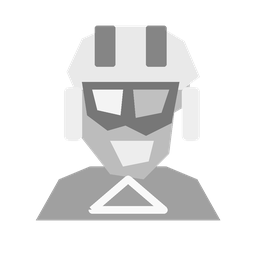
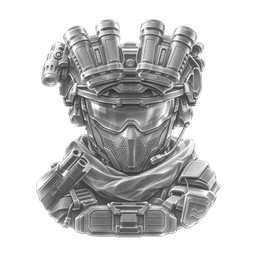
Refine 16 glass engravings and add Noexistence artwork

diff --git a/tools/build.py b/tools/build.py
@@ -55,11 +55,22 @@ def main():
     index=json.loads((ROOT/'catalog.json').read_text(encoding='utf8'));entries=[];preview=[]
     (ROOT/'icons').mkdir(exist_ok=True)
     for item in index:
-        name=item['id'];svg=(ROOT/'src'/f'{name}.svg').read_text(encoding='utf8');image=render(svg)
+        name=item['id']
+        if item.get('source'):
+            source=(ROOT/item['source']).resolve()
+            assert source.parent==ROOT/'src-raster' and source.suffix=='.png'
+            # Format/size normalization only. No contours or shading are repainted.
+            with Image.open(source) as im:
+                # Consistent safe area protects portrait fringes from the launcher's round mask.
+                artwork=im.convert('RGBA');artwork.thumbnail((224,224),Image.Resampling.LANCZOS)
+                image=Image.new('RGBA',(256,256))
+                image.alpha_composite(artwork,((256-artwork.width)//2,(256-artwork.height)//2))
+        else:
+            svg=(ROOT/'src'/f'{name}.svg').read_text(encoding='utf8');image=render(svg)
         path=ROOT/'icons'/f'{name}.png';image.save(path,optimize=True)
         sha=hashlib.sha256(path.read_bytes()).hexdigest()
         for package in item['packages']:
-            entries.append(dict(package=package,label=item['label'],path=f'icons/{name}.png',sha256=sha,dynamic=item.get('dynamic','')))
+            entries.append(dict(package=package,label=item['label'],path=f'icons/{name}.png',sha256=sha,dynamic=item.get('dynamic',''),render=item.get('render','')))
         preview.append((item['label'],image))
     (ROOT/'index.json').write_text(json.dumps(dict(schema=1,icons=entries),ensure_ascii=False,indent=2)+'\n',encoding='utf8')
     cols=5;rows=math.ceil(len(preview)/cols);board=Image.new('RGB',(cols*180,rows*205),'#243444');d=ImageDraw.Draw(board)

diff --git a/tools/validate.py b/tools/validate.py
@@ -14,6 +14,7 @@ for e in data['icons']:
     with Image.open(p) as im:
         assert im.format=='PNG' and im.size==(256,256) and im.mode=='RGBA'
         assert im.getchannel('A').getextrema()==(0,255)
+    assert e.get('render','') in ('','engraved')
     assert e.get('dynamic','') in ('','clock','calendar')
 assert len(data['icons'])<=500
 print(f'Validated {len(seen)} package mappings and all PNG hashes/geometry')

diff --git a/README.md b/README.md
@@ -2,7 +2,7 @@
 
 供 DreamGlass ColorOS 17 使用的独立、按需下载图标库。安装包不内置这些定制素材。应用在本机按包名匹配，只下载已安装应用对应的图标，不上传应用列表。
 
-目前包含 26 份可编辑绘图、35 个包名映射：第五人格、三角洲行动、系统钱包、瘟疫公司、一个木函、SakuraFRP、Hotlink、万年历、AGC 相机，以及相机、电话、信息、相册、时钟、日历；现新增 Google Flow、民法典速查、卡拉彼丘、PicACG、七鲜、GPU GFLOPS、定时点击器Ultra、支付宝 InstallB、KARDS、Floating Camera 和 MPDL。
+目前包含 27 份图稿、36 个包名映射：第五人格、三角洲行动、系统钱包、瘟疫公司、一个木函、SakuraFRP、Hotlink、万年历、AGC 相机，以及相机、电话、信息、相册、时钟、日历；现新增 Google Flow、民法典速查、卡拉彼丘、PicACG、七鲜、GPU GFLOPS、定时点击器Ultra、支付宝 InstallB、KARDS、Floating Camera、MPDL 和 TheNOexistenceNofyouANDme。
 
 ![图标前景预览](preview.png)
 
@@ -14,7 +14,9 @@
 
 用户自行上传的图片只保存在设备本地，优先于在线库，保留上传图片的原始颜色，不自动转为浮雕。可在自定义页面恢复所选应用的默认处理。
 
-安卓默认图标由客户端匹配系统默认资源后统一生成玻璃机器人，不给每个占位图标应用建立专门适配。复杂图片采用重新绘制的语义图案，保留主要特征；素材的深浅层次交由统一玻璃材质处理。
+安卓默认图标由客户端匹配系统默认资源后统一生成玻璃机器人，不给每个占位图标应用建立专门适配。16 份精细图稿使用内置 imagegen，参考原图提取人物、发丝、眼睛、服饰、镜头和标志轮廓，生成银白玻璃浮雕；不再将复杂人物换成简单语义符号。客户端保留图稿的灰阶细节。图标底板仍实时采样共享壁纸纹理。
+
+「图标背景模糊」可在 0–100% 间调整，0% 为清晰底板，默认 26%；前景线条不受模糊影响。预制与实时模式共用，滑块松手后按需准备一次，桌面滑动不会触发壁纸读取或重新模糊。
 
 ## 数据格式
 
@@ -26,9 +28,12 @@
   "label": "三角洲行动",
   "path": "icons/delta-force.png",
   "sha256": "64 位小写 SHA-256",
-  "dynamic": ""
+  "dynamic": "",
+  "render": "engraved"
 }
 ```
+
+`render` 为可选字段：`engraved` 表示保留精细灰阶雕刻，不重新进行通用色阶映射；空字符串沿用原有处理。需 DreamGlass 2.0.1-debug22 或更新版本，旧客户端会忽略此字段。
 
 `dynamic` 可为 `clock`、`calendar` 或空字符串。素材是 256×256 透明 PNG，灰阶用于区分前景的深浅与高度。客户端仅接受相对 PNG 路径，验证散列、体积和解码尺寸，不下载或执行代码。
 
@@ -46,11 +51,12 @@ com.finshell.wallet.webp
 
 ## 修改与构建
 
-- 编辑 `src/*.svg`，在 `catalog.json` 中维护包名映射。
+- 简洁符号编辑 `src/*.svg`；精细图稿源文件位于 `src-raster/*.png`。`catalog.json` 维护包名、源文件和渲染方式。
+- `prompts/engraved-2026-11-17.json` 保存生图提示词。构建只统一尺寸及透明安全留白，不重新描画细节。
 - 安装 `Pillow` 和 `fonttools`，执行 `python tools/build.py`。
 - 脚本重新生成 `icons/*.png`、`index.json` 的散列与 `preview.png`。
 - `python tools/validate.py` 检查所有公开数据及素材。
 
-素材是根据应用语义与用户提供参考重新绘制的风格化适配。仓库不包含原始应用 APK、游戏素材包、手机日志或用户截图。应用名称和标志的商标权属于各自权利人，不代表官方授权或合作。
+素材是根据用户提供的应用图标参考制作的 AI 辅助或矢量风格化适配。仓库不包含原始应用 APK、游戏素材包、手机日志或用户截图。应用名称和标志的商标权属于各自权利人，不代表官方授权或合作。
 
-源码及本项目原创绘图按 GPL-3.0 分发，见 [LICENSE](LICENSE)。
+构建源码及本项目原创部分按 GPL-3.0 分发，见 [LICENSE](LICENSE)。
